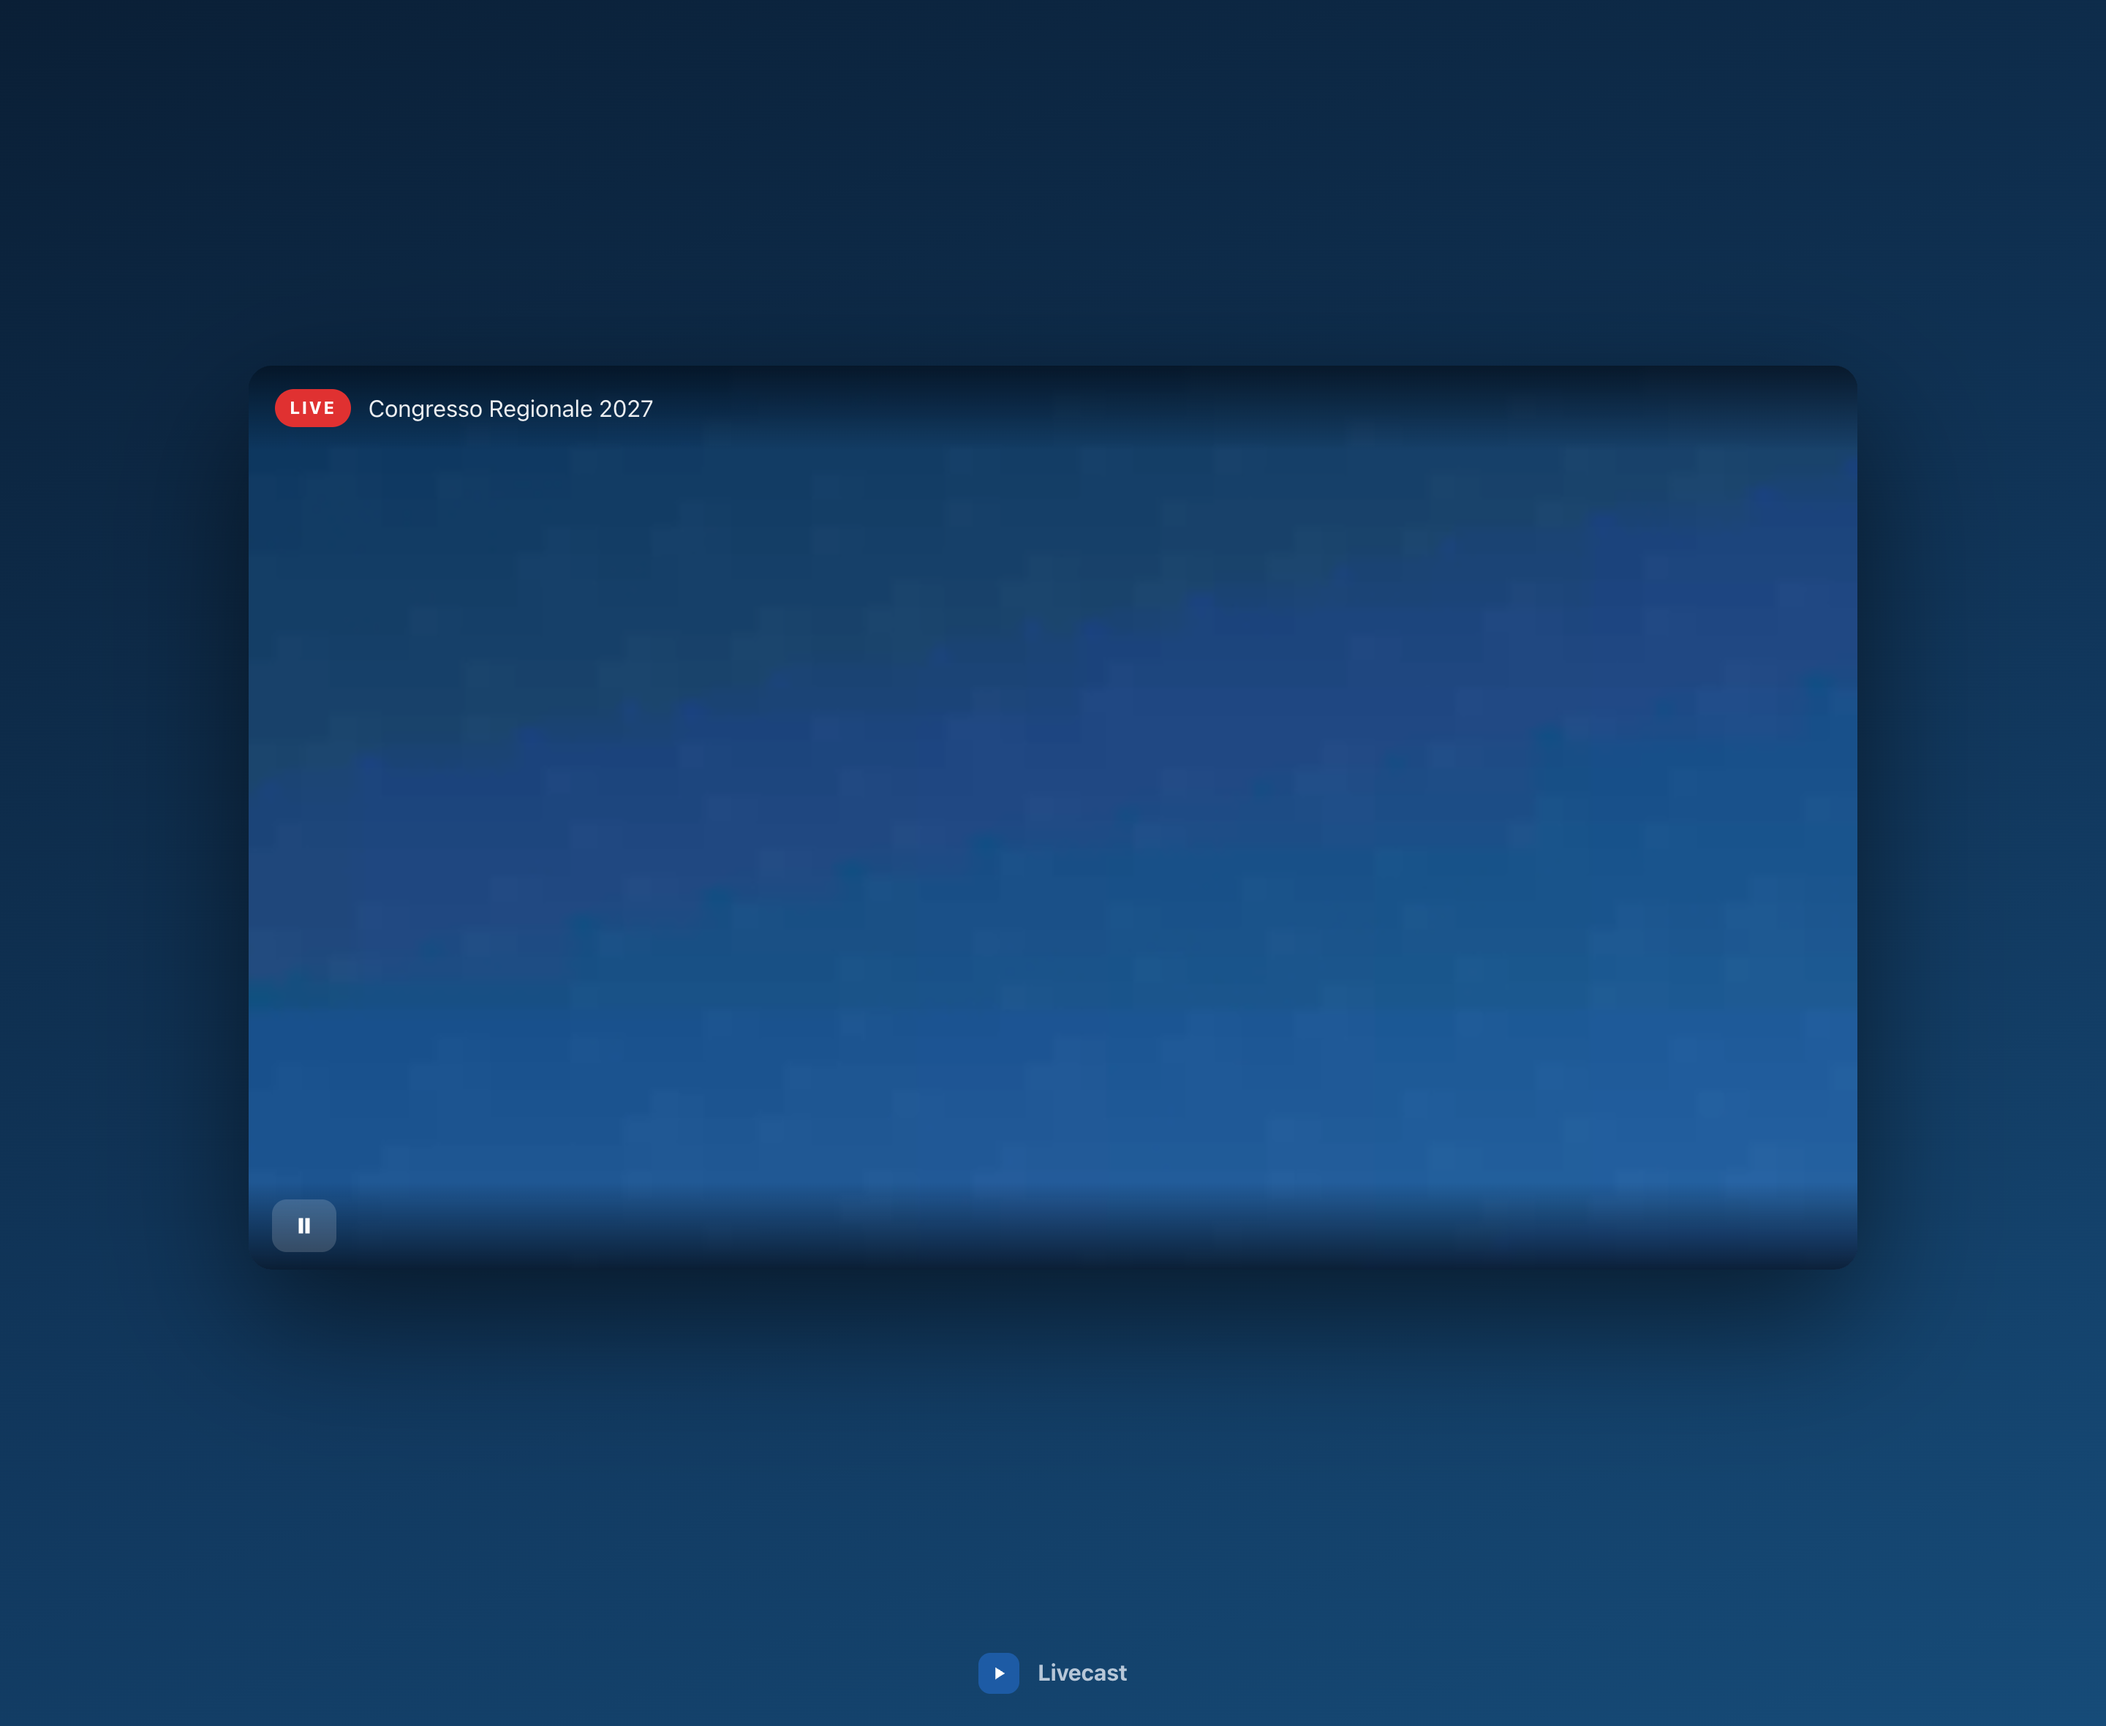
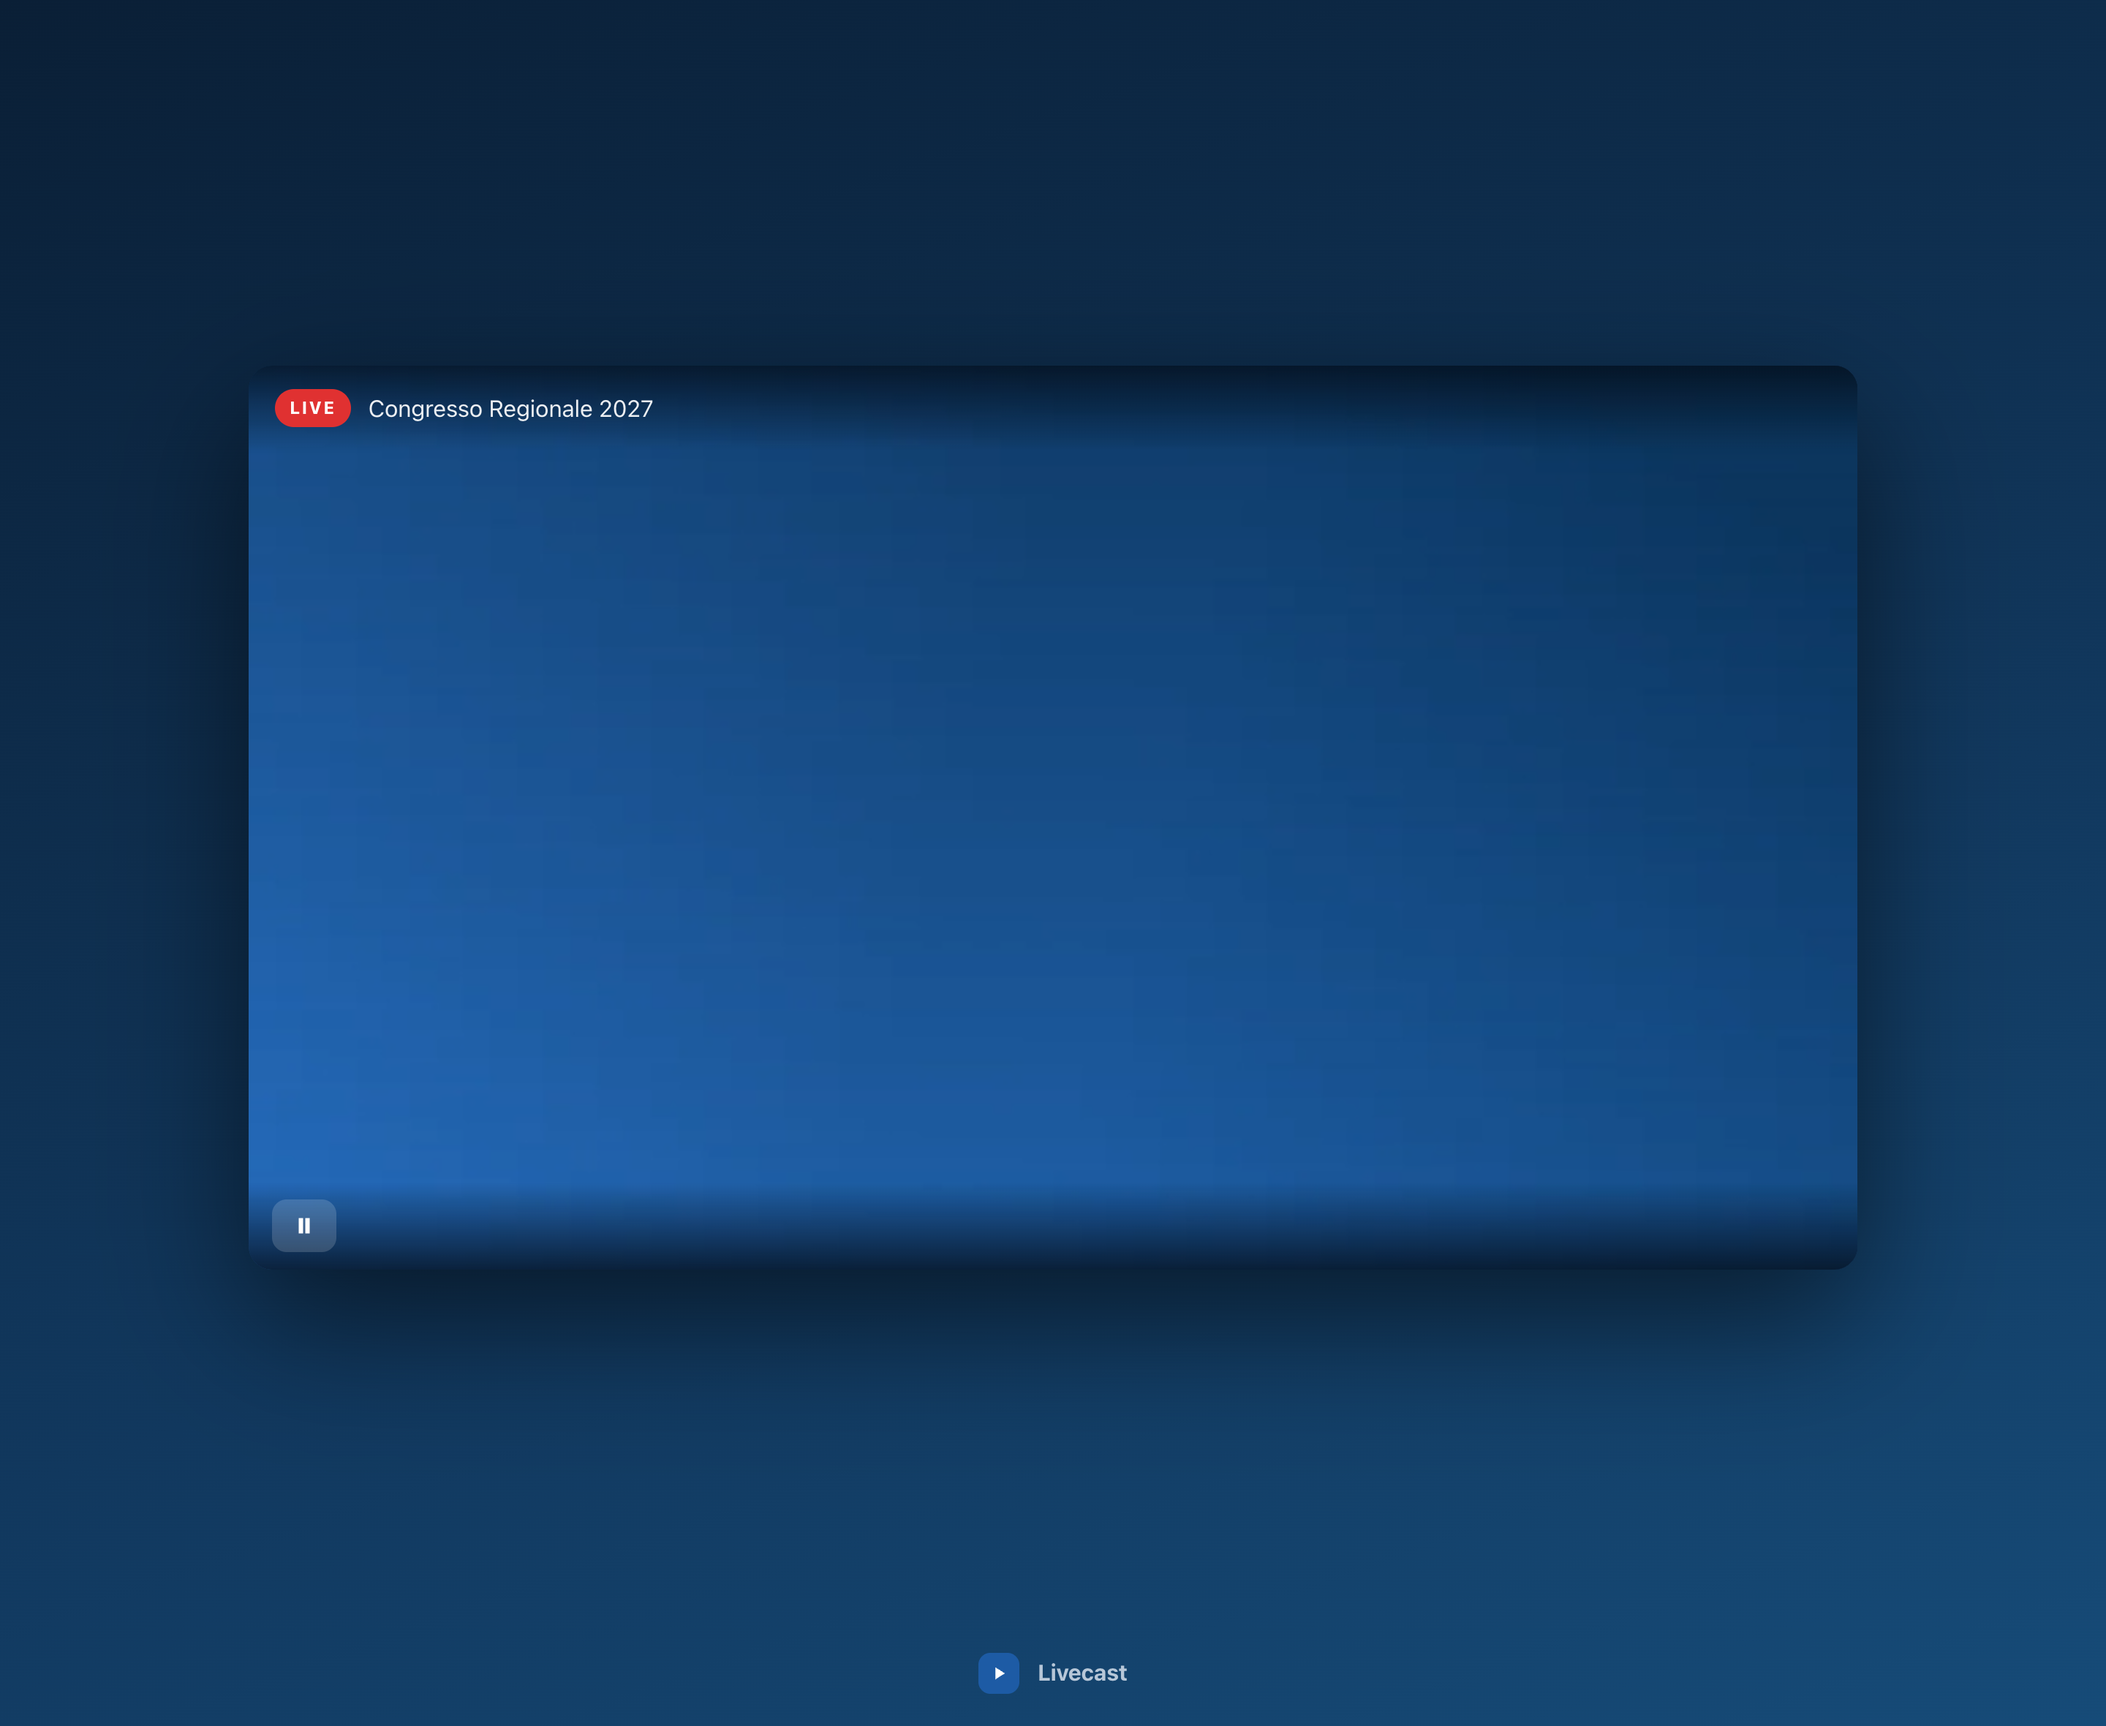
player: the pause bar appears only during playback
Before play it floated over the artwork as a stray box; the overlay button is the
only control the poster needs.

Changed region(s): [[0.0938, 0.2165, 0.375, 0.7114], [0.7812, 0.2784, 0.9062, 0.7114]]

diff --git a/apps/web/src/components/MediaPlayer.tsx b/apps/web/src/components/MediaPlayer.tsx
@@ -256,7 +256,9 @@ export function MediaPlayer({ hlsUrl, kind, live, ended, title, brand, posterUrl
 
       {kind === "audio" && overlay}
 
-      {kind === "video" && (
+      {/* The bar exists to pause: before playback the overlay button is the only
+          thing on screen, so the artwork stays clean. */}
+      {kind === "video" && playing && (
         <div className="player-controls">
           <button
             className="control-button"
